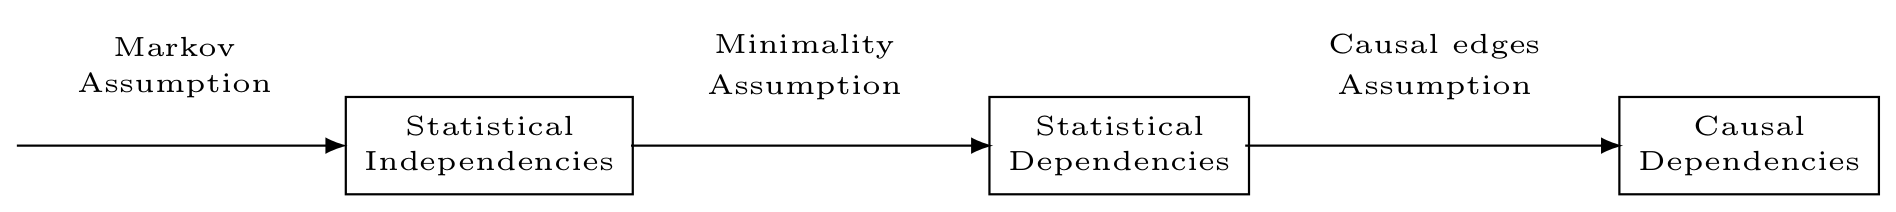
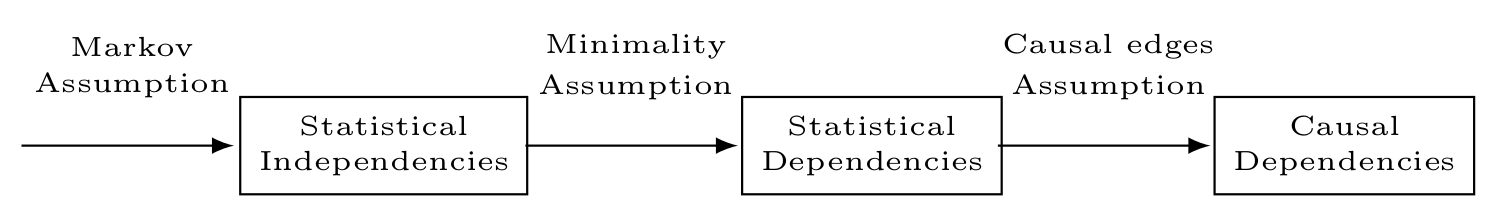
section:background,flow; process:write,figures

diff --git a/images/tex/ACflow.tex b/images/tex/ACflow.tex
@@ -7,16 +7,17 @@
 
 \begin{tikzpicture}
     % nodes
-    \node at (-5,0.5) {\tiny{\shortstack{Markov \\ Assumption}}};
-    \node at (-3,0) [rectangle,draw]  {\tiny{\shortstack{Statistical \\ Independencies}}};
-    \node at (-1,0.5) {\tiny{\shortstack{Minimality \\ Assumption}}};
+    \node at (-3.7,0.5) {\tiny{\shortstack{Markov \\ Assumption}}};
+    \node at (-2.1,0) [rectangle,draw]  {\tiny{\shortstack{Statistical \\ Independencies}}};
+    \node at (-0.5,0.5) {\tiny{\shortstack{Minimality \\ Assumption}}};
     \node at (1,0) [rectangle,draw]  {\tiny{\shortstack{Statistical \\ Dependencies}}};
-    \node at (3,0.5) {\tiny{\shortstack{Causal edges \\ Assumption}}};
-    \node at (5,0) [rectangle,draw]  {\tiny{\shortstack{Causal \\ Dependencies}}};
-	% paths
-    \draw[-{latex}](-6,0) to (-3.9,0);
-    \draw[-{latex}](-2.1,0) to (0.2,0);
-    \draw[-{latex}](1.8,0) to (4.2,0);
+    \node at (2.5,0.5) {\tiny{\shortstack{Causal edges \\ Assumption}}};
+    \node at (4,0) [rectangle,draw]  {\tiny{\shortstack{Causal \\ Dependencies}}};
+	
+    % paths
+    \draw[-{latex}](-4.4,0) to (-3.05,0);
+    \draw[-{latex}](-1.2,0) to (0.15,0);
+    \draw[-{latex}](1.8,0) to (3.15,0);
 \end{tikzpicture}
   
 \end{document}
